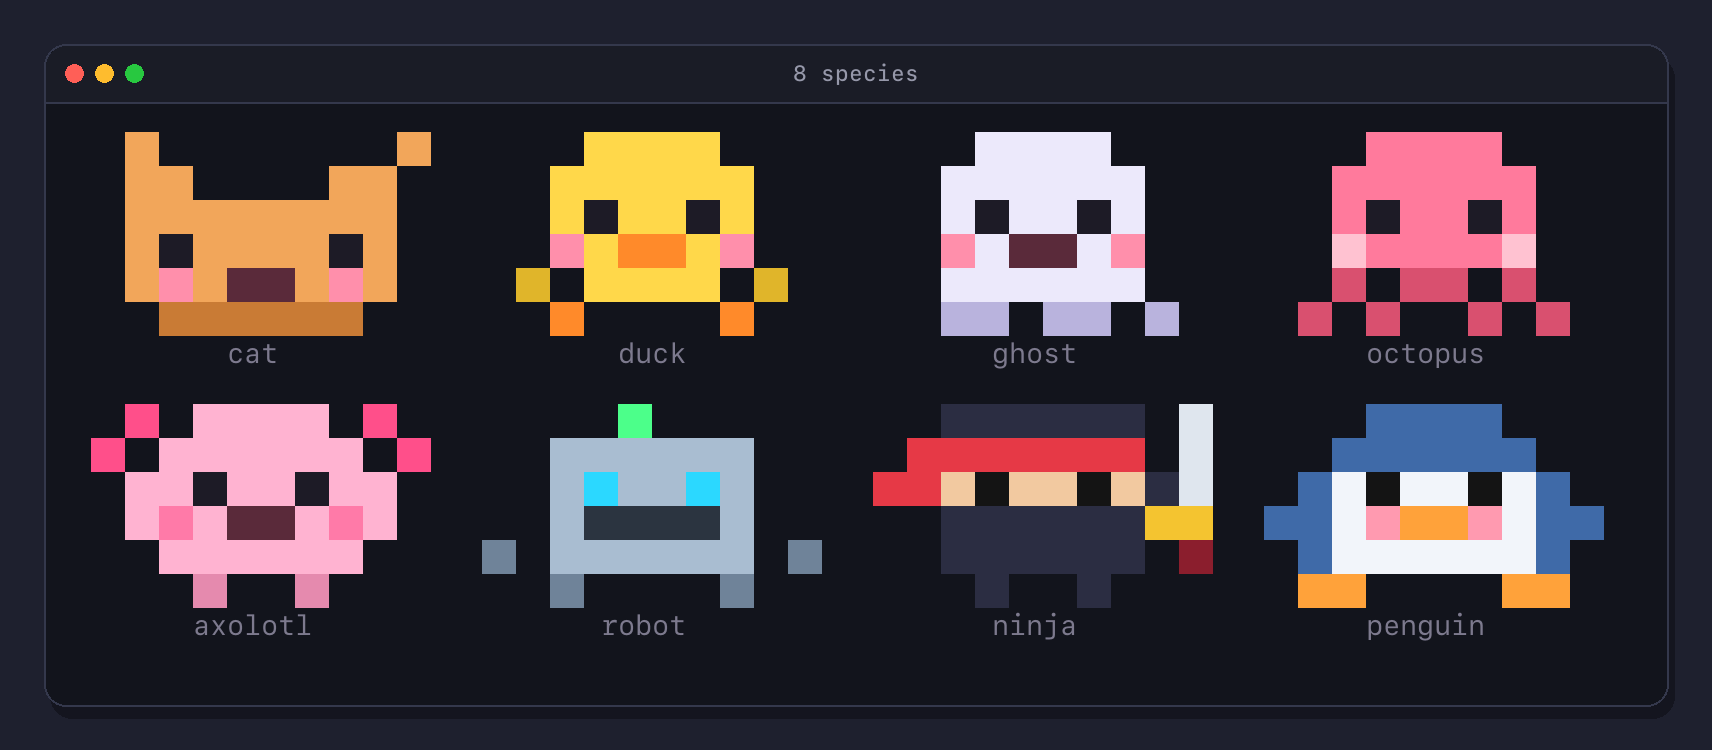
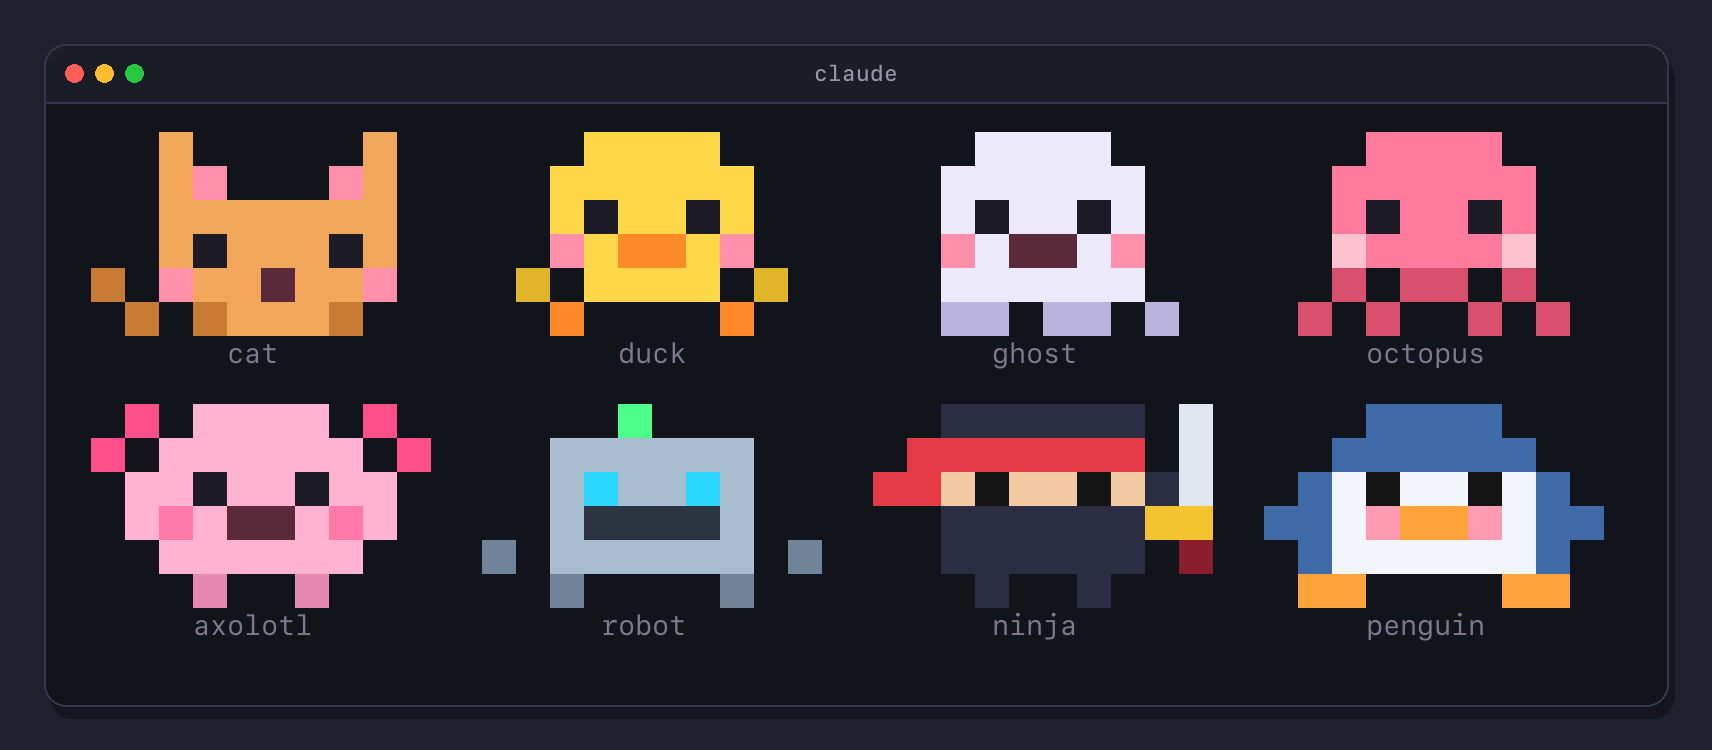
fix: the cat is cuter at every age, pink ears, a small nose and a tail that wags as it walks, pictures redrawn, version 0.13.1

Changed region(s): [[0.031, 0.1533, 0.2477, 0.46], [0.1857, 0.1533, 0.2786, 0.276], [0.4644, 0.092, 0.5263, 0.1227]]

diff --git a/pixel-buddy/hooks/species.ts b/pixel-buddy/hooks/species.ts
@@ -27,20 +27,20 @@ export const SPECIES: readonly Species[] = [
         colors: { b: 0xf2a65a, s: 0xc97b35, e: EYE, c: CHEEK, m: MOUTH },
         frames: [
             [
-                '.b......b.',
-                '.bb....bb.',
-                '.bbbbbbbb.',
-                '.bebbbbeb.',
-                '.bcbmmbcb.',
-                '..ssssss..',
+                '..b.....b.',
+                '..bc...cb.',
+                's.bbbbbbb.',
+                's.bebbbeb.',
+                '.scbbmbbc.',
+                '...sbbbs..',
             ],
             [
-                '.b.......b',
-                '.bb....bb.',
-                '.bbbbbbbb.',
-                '.bebbbbeb.',
-                '.bcbmmbcb.',
-                '..ssssss..',
+                '..b.....b.',
+                '..bc...cb.',
+                '..bbbbbbb.',
+                '..bebbbeb.',
+                's.cbbmbbc.',
+                '.s.sbbbs..',
             ],
         ],
         nap: [
@@ -286,7 +286,7 @@ export type Growth = 'baby' | 'young' | 'adult'
 const LITTLE: Record<SpeciesId, Record<'baby' | 'young', readonly (readonly string[])[]>> = {
     cat: {
         baby: [['b.....b', 'bc...cb', 'bbbbbbb', 'bebbbeb', 'cbbmbbc'], ['b.....b', 'bc...cb', 'bbbbbbb', 'bebbbeb', 'cbbmbbc']],
-        young: [['b......b', 'bb....bb', 'bebbbbeb', 'bcbmmbcb', '.ssssss.'], ['b......b', 'bb....bb', 'bebbbbeb', 'bcbmmbcb', '.s.ss.s.']],
+        young: [['.b.....b', '.bc...cb', '.bbbbbbb', 'sbebbbeb', 'scbbmbbc', '..sb.bs.'], ['.b.....b', '.bc...cb', '.bbbbbbb', '.bebbbeb', 'scbbmbbc', 's.sb.bs.']],
     },
     duck: {
         baby: [['.bbbb.', 'bebbeb', 'cboobc', '.o..o.'], ['.bbbb.', 'bebbeb', 'cboobc', 'o....o']],

diff --git a/tests/buddy.test.tsx b/tests/buddy.test.tsx
@@ -1422,8 +1422,8 @@ test('the share card draws the buddy in colored squares, says its rarity, level 
 
     expect(lines[0]).toBe('Mochi, my rare cat · level 2')
     expect(grid.map(row => [...row].length)).toEqual([10, 10, 10, 10, 10, 10])
-    expect(grid[3]).toBe('⬜🟧⬛🟧🟧🟧🟧⬛🟧⬜')
-    expect(grid[5]).toBe('⬜⬜🟫🟫🟫🟫🟫🟫⬜⬜')
+    expect(grid[3]).toBe('🟫⬜🟧⬛🟧🟧🟧⬛🟧⬜')
+    expect(grid[5]).toBe('⬜⬜⬜🟫🟧🟧🟧🟫⬜⬜')
     expect(lines[7]).toBe('🏆 2 of 14 trophies: 👑 🦉')
     expect(lines[8]).toBe('Pixel Buddy for Claude Code: github.com/SimakovIgor/pixel-buddy')
     expect(shareOf({ ...NOODLE, species: 'ghost' } as Buddy, {}).split('\n')[2]).toBe('🟦🟦⬜⬜⬜⬜⬜⬜🟦🟦')
